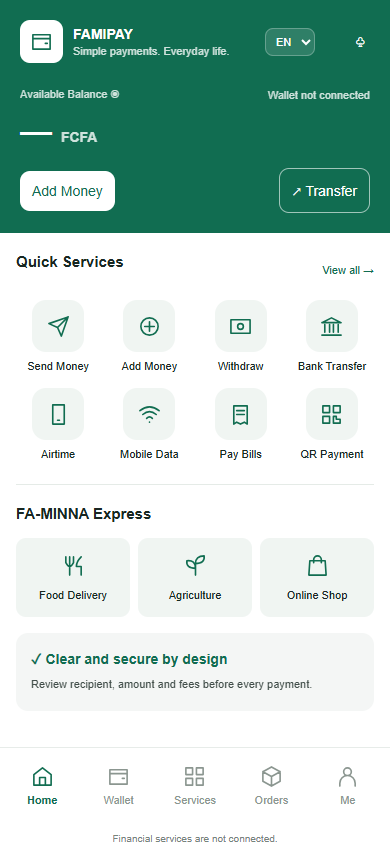
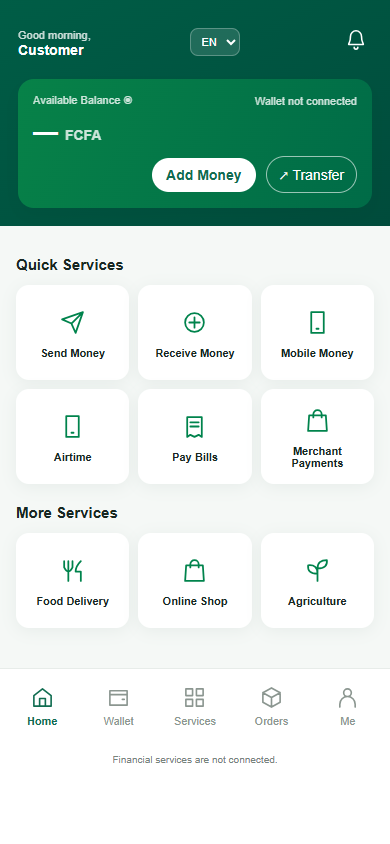
Update FAMIPAY branding and home screen

diff --git a/assets/js/famipay-app.js b/assets/js/famipay-app.js
@@ -2,7 +2,7 @@
 (() => {
   'use strict';
   const F = window.Famina, app = document.getElementById('app');
-  const services = ['Send Money','Add Money','Withdraw','Bank Transfer','Airtime','Mobile Data','Pay Bills','QR Payment','Food Delivery','Agriculture','Online Shop','Agent Services'];
+  const services = ['Send Money','Add Money','Withdraw','Bank Transfer','Airtime','Mobile Data','Pay Bills','QR Payment','Food Delivery','Agriculture','Online Shop','Agent Services','Receive Money','Mobile Money','Merchant Payments'];
   const tabs = ['Home','Wallet','Services','Orders','Me'];
   const paths = ['M22 2 15 22 11 13 2 9 22 2M22 2 11 13','M12 3a9 9 0 1 0 0 18 9 9 0 0 0 0-18M12 7v10M7 12h10','M2 5h20v14H2zM12 9a3 3 0 1 0 0 6 3 3 0 0 0 0-6','M2 8 12 3 22 8H2M5 10v8m5-8v8m4-8v8m5-8v8M2 21h20','M6 2h12v20H6zM11 18h2','M2 8q10-8 20 0M5 12q7-6 14 0M9 16q3-3 6 0M12 20h.01','M5 3h14v19l-3-2-4 2-4-2-3 2zM8 8h8m-8 4h8','M3 3h7v7H3zM14 3h7v7h-7zM3 14h7v7H3zM14 14h3v3h4v4h-7z','M4 3v6q4 8 8 0V3M8 3v19M20 3q-5 5-5 10h5v9','M12 22V10M12 15Q2 15 3 7q9-1 9 8M12 10q0-8 9-8 1 8-9 8','M4 7h16l1 15H3zM8 9V6a4 4 0 0 1 8 0v3','M3 10 12 3 21 10v11H3zM9 21v-8h6v8','M3 5h18v15H3zM3 9h18M16 14h2','M3 3h7v7H3zM14 3h7v7h-7zM3 14h7v7H3zM14 14h7v7h-7z','M3 7 12 2 21 7v10l-9 5-9-5zM3 7l9 5 9-5M12 12v10','M12 3a4 4 0 1 0 0 8 4 4 0 0 0 0-8M4 22v-3a8 8 0 0 1 16 0v3'];
   const icon = i => `<svg aria-hidden="true" viewBox="0 0 24 24"><path d="${paths[i] || paths[13]}"/></svg>`;
@@ -23,7 +23,7 @@
   function body() {
     if (failed) return panel(t('Unable to load. Please try again.')) + '<button class="full" data-action="retry">'+t('Try again')+'</button>';
     if (!screen) {
-      if (tab === 'Home') return `<div class="row"><h3>${t('Quick Services')}</h3><button class="link" data-tab="Services">${t('View all →')}</button></div><div class="grid">${services.slice(0,8).map(tile).join('')}</div><hr class="divider"><h3 class="express-title">FA-MINNA Express</h3><div class="express">${services.slice(8,11).map((s,i)=>`<button data-open="${s}">${icon(i+8)}${t(s)}</button>`).join('')}</div>${panel('<b class="green">✓ '+t('Clear and secure by design')+'</b><br><small>'+t('Review recipient, amount and fees before every payment.')+'</small>')}`;
+      if (tab === 'Home') return `<h3 class="home-section-title">${t('Quick Services')}</h3><div class="grid home-grid">${[['Send Money',0],['Receive Money',1],['Mobile Money',4],['Airtime',4],['Pay Bills',6],['Merchant Payments',10]].map(([name,i])=>tile(name,i)).join('')}</div><h3 class="home-section-title">${t('More Services')}</h3><div class="grid home-grid">${[['Food Delivery',8],['Online Shop',10],['Agriculture',9]].map(([name,i])=>tile(name,i)).join('')}</div>`;
       if (tab === 'Services') return `<h3>${t('All Services')}</h3><div class="grid all-services">${services.map(tile).join('')}</div>`;
       if (tab === 'Wallet') return `<h3>${t('Wallet Activity')}</h3>${unavailable()}${button('Withdraw')}`;
       if (tab === 'Orders') return `<h3>${t('My Orders')}</h3>` + (data.length ? data.map(o=>panel(`<b>${esc(o.id)}</b><br>${t(o.status)} · ${money(amount(o))}<button class="full" data-order="${esc(o.id)}">${t('Track Order')}</button>`)).join('') : panel(t('No orders yet.')) + button('Food Delivery'));
@@ -48,7 +48,7 @@
   function render() {
     document.documentElement.lang=lang; document.documentElement.dir=lang==='ar'?'rtl':'ltr';
     const balance = !screen && ['Home','Wallet'].includes(tab);
-    app.innerHTML=`<header><div class="row"><div class="row">${screen?'<button class="back" data-action="back" aria-label="'+t('Back')+'">←</button>':'<div class="logo">'+icon(12)+'</div>'}<div><b>${t(screen||'FAMIPAY')}</b><br><small>${t('Simple payments. Everyday life.')}</small></div></div><select id="language" aria-label="Language / Langue / اللغة">${['fr','ar','en'].map(l=>`<option value="${l}" ${l===lang?'selected':''}>${l.toUpperCase()}</option>`).join('')}</select><button class="back" data-open="Notifications" aria-label="${t('Notifications')}">♧</button></div>${balance?`<div class="balance-label row"><button class="back balance-toggle" data-action="hide" aria-label="${t('Hide balance')}">${t('Available Balance')} ◉</button><small>${t('Wallet not connected')}</small></div><div class="balance">${hidden?'••••••':'—'} <small class="currency">FCFA</small></div><div class="row">${button('Add Money','Add Money','white')}${button('↗ Transfer','Send Money','outline')}</div>`:''}</header><main id="fp-content" aria-busy="${busy}">${busy?panel(t('Loading…')):body()}<p class="error" role="alert" id="err"></p><p role="status" id="notice"></p></main>${!screen?`<nav aria-label="${t('Main navigation')}">${tabs.map((s,i)=>`<button class="${tab===s?'active':''}" data-tab="${s}" ${tab===s?'aria-current="page"':''}>${icon(i+11)}${t(s)}</button>`).join('')}</nav>`:''}<div class="foot">${t('Financial services are not connected.')}</div>`;
+    app.innerHTML=`<header class="${!screen && tab==='Home'?'home-app-header':''}"><div class="row"><div class="row">${screen?'<button class="back" data-action="back" aria-label="'+t('Back')+'">←</button>':'<div class="logo"><img src="assets/branding/famipay-logo.svg" alt="FAMIPAY"></div>'}<div>${!screen && tab==='Home'?`<small>${t('Good morning')},</small><br><b>${esc(F.user.name || 'FAMIPAY')}</b>`:`<b>${t(screen||'FAMIPAY')}</b><br><small>${t('Simple payments. Everyday life.')}</small>`}</div></div><select id="language" aria-label="Language / Langue / اللغة">${['fr','ar','en'].map(l=>`<option value="${l}" ${l===lang?'selected':''}>${l.toUpperCase()}</option>`).join('')}</select><button class="back" data-open="Notifications" aria-label="${t('Notifications')}"><svg aria-hidden="true" viewBox="0 0 24 24"><path d="M18 8a6 6 0 0 0-12 0c0 7-2 7-2 9h16c0-2-2-2-2-9M10 20a2 2 0 0 0 4 0"/></svg></button></div>${balance?`<div class="home-balance-card"><div class="balance-label row"><button class="back balance-toggle" data-action="hide" aria-label="${t('Hide balance')}">${t('Available Balance')} ◉</button><small>${t('Wallet not connected')}</small></div><div class="balance">${hidden?'••••••':'—'} <small class="currency">FCFA</small></div><div class="row">${button('Add Money','Add Money','white')}${button('↗ Transfer','Send Money','outline')}</div></div>`:''}</header><main id="fp-content" aria-busy="${busy}">${busy?panel(t('Loading…')):body()}<p class="error" role="alert" id="err"></p><p role="status" id="notice"></p></main>${!screen?`<nav aria-label="${t('Main navigation')}">${tabs.map((s,i)=>`<button class="${tab===s?'active':''}" data-tab="${s}" ${tab===s?'aria-current="page"':''}>${icon(i+11)}${t(s)}</button>`).join('')}</nav>`:''}<div class="foot">${t('Financial services are not connected.')}</div>`;
     document.title=(screen||tab)+' · FAMIPAY';
     app.querySelector('#language').onchange=e=>{ lang=e.target.value;try{localStorage.setItem('famipay-private-language',lang);localStorage.setItem('language',lang==='en'?'en':lang+'-TD');window.FaminaSession?.setPreference('language',lang==='en'?'en':lang+'-TD');}catch(_){}render(); };
   }

diff --git a/assets/css/famipay-app.css b/assets/css/famipay-app.css
@@ -1,3 +1,6 @@
 *{box-sizing:border-box}body{margin:0;background:#eef1f0;font:14px Arial,sans-serif;color:#182722}#app{max-width:390px;margin:20px auto;background:white;border:1px solid #d4ded9;border-radius:28px;overflow:hidden}header{background:#116d51;color:white;padding:20px}.row{display:flex;align-items:center;justify-content:space-between;gap:10px}small{font-size:11px;opacity:.8}button,input,select{font:inherit}button{cursor:pointer;border:0;border-radius:10px;padding:12px;background:#116d51;color:white}button:disabled{opacity:.5}.white{background:white;color:#116d51}.outline{background:transparent;border:1px solid #ffffff99}.balance{font-size:32px;font-weight:bold;margin:12px 0 18px}main{padding:20px 16px;min-height:420px}h3{font-size:15px;margin:0 0 16px}.grid{display:grid;grid-template-columns:repeat(4,1fr);gap:16px 7px;margin:14px 0 24px}.tile{background:transparent;color:#182722;padding:0;font-size:11px;display:flex;flex-direction:column;align-items:center;gap:8px}.tile span{display:grid;place-items:center;background:#f0f5f2;color:#116d51;width:52px;height:52px;border-radius:14px}svg{width:23px;height:23px;fill:none;stroke:currentColor;stroke-width:1.7;stroke-linecap:round;stroke-linejoin:round}.express{display:grid;grid-template-columns:repeat(3,1fr);gap:8px;margin:15px 0}.express button{background:#f0f5f2;color:#182722;font-size:11px;display:flex;align-items:center;flex-direction:column;gap:12px;padding:16px 5px}.express svg{color:#116d51}.panel{background:#f4f6f5;padding:15px;border-radius:12px;margin:16px 0;line-height:1.7}.muted{color:#77847d;font-size:12px}nav{display:flex;border-top:1px solid #e7ece9;padding:12px 4px}nav button{background:white;color:#8b9690;flex:1;display:flex;align-items:center;flex-direction:column;gap:6px;font-size:11px;padding:5px}nav .active{color:#116d51;font-weight:bold}.full{width:100%;margin-top:12px}input{width:100%;padding:13px;border:1px solid #d6dfda;border-radius:9px;margin:8px 0 18px}label{font-size:12px;font-weight:bold}.line{padding:14px 0;border-bottom:1px solid #edf0ee;cursor:pointer}.back{padding:5px;background:transparent}.center{text-align:center;padding:30px 10px}.link{background:transparent;color:#116d51;padding:0;font-size:11px}select{background:#ffffff20;border:1px solid #ffffff44;color:white;border-radius:8px;padding:6px;font-size:11px}option{color:#182722;background:white}.logo{background:white;color:#116d51;padding:10px;border-radius:10px;display:flex}.foot{text-align:center;font-size:10px;color:#77847d;padding:10px}.error{color:#b42318;font-size:12px}@media(max-width:420px){#app{margin:0;max-width:none;border:0;border-radius:0;min-height:100vh}}
 
 .divider{border:0;border-top:1px solid #e5ebe7}.express-title{margin-top:20px}.green{color:#116d51}.all-services{grid-template-columns:repeat(3,1fr)}.balance-label{margin-top:25px}.balance-toggle{font-size:11px;opacity:.8}.currency{font-size:14px}.account-link{display:flex;justify-content:space-between;width:100%;background:white;color:#182722;border-radius:0;text-align:start}.address-select{display:block;width:100%;margin:12px 0;padding:12px;background:white;color:#182722;border-color:#d6dfda;font-size:14px}button:focus-visible,a:focus-visible,input:focus-visible,select:focus-visible{outline:3px solid #d89924;outline-offset:3px}.row>div{min-width:0}header b{overflow-wrap:anywhere}#notice{color:#116d51}html[dir=rtl] input{direction:auto}#auth-status{max-width:390px;margin:20px auto;background:white;border-radius:28px}#err:empty,#notice:empty{display:none}.balance-toggle{padding:0}
+
+/* Home dashboard, inspired by the FAMIPAY app reference. */
+.home-app-header{background:linear-gradient(150deg,#005d46,#004b3b);padding:24px 18px 18px}.home-app-header .logo{display:none}.home-app-header .row>div.row{justify-content:flex-start}.home-app-header .back svg{width:22px;height:22px}.home-balance-card{background:linear-gradient(115deg,#078248,#006b47);border-radius:16px;padding:15px;margin-top:20px;box-shadow:0 8px 20px #003a2922}.home-balance-card .balance-label{margin-top:0}.home-balance-card .balance{font-size:25px;margin:10px 0}.home-balance-card .row:last-child{justify-content:flex-end}.home-balance-card .white{padding:9px 14px;border-radius:20px;font-weight:700}.home-balance-card .outline{padding:8px 12px;border-radius:20px}.home-section-title{margin:10px 0 12px;font-size:15px}.home-grid{grid-template-columns:repeat(3,1fr);gap:9px;margin:0 0 20px}.home-grid .tile{background:#fff;border-radius:13px;min-height:95px;justify-content:center;padding:10px 5px;box-shadow:0 3px 16px #173a2810;font-weight:700}.home-grid .tile span{background:transparent;width:32px;height:32px;color:#00834c}.home-grid .tile svg{width:25px;height:25px}#app:has(.home-app-header) main{background:#f5f8f6;min-height:0} .logo img{width:100px;height:25px;object-fit:contain}header select{flex-shrink:0}

diff --git a/assets/js/famipay-translations.js b/assets/js/famipay-translations.js
@@ -1,4 +1,9 @@
 window.FamipayTranslations = Object.fromEntries([
+['More Services','Plus de services','خدمات أخرى'],
+['Good morning','Bonjour','صباح الخير'],
+['Receive Money','Recevoir de l’argent','استلام الأموال'],
+['Mobile Money','Mobile Money','الأموال عبر الهاتف'],
+['Merchant Payments','Paiements marchands','مدفوعات التجار'],
 ['Checking your session…','Vérification de votre session…','جارٍ التحقق من جلستك…'],['Please sign in to access FAMIPAY.','Connectez-vous pour accéder à FAMIPAY.','سجّل الدخول للوصول إلى FAMIPAY.'],['Login / Sign up','Connexion / Inscription','تسجيل الدخول / إنشاء حساب'],['Unable to load the preview.','Impossible de charger l’aperçu.','تعذر تحميل المعاينة.'],['Unable to verify your session. Please try again.','Impossible de vérifier votre session. Veuillez réessayer.','تعذر التحقق من جلستك. حاول مرة أخرى.'],
 ['Home','Accueil','الرئيسية'],['Wallet','Portefeuille','المحفظة'],['Services','Services','الخدمات'],['Orders','Commandes','الطلبات'],['Me','Moi','حسابي'],
 ['Send Money',"Envoyer de l’argent",'إرسال الأموال'],['Add Money',"Ajouter de l’argent",'إضافة أموال'],['Withdraw','Retirer','سحب الأموال'],['Bank Transfer','Virement bancaire','تحويل بنكي'],['Airtime','Crédit mobile','رصيد الهاتف'],['Mobile Data','Internet mobile','بيانات الهاتف'],['Pay Bills','Payer les factures','دفع الفواتير'],['QR Payment','Paiement QR','الدفع برمز QR'],['Food Delivery','Livraison de repas','توصيل الطعام'],['Agriculture','Agriculture','الزراعة'],['Online Shop','Boutique en ligne','المتجر الإلكتروني'],['Agent Services',"Services d’agent",'خدمات الوكيل'],
